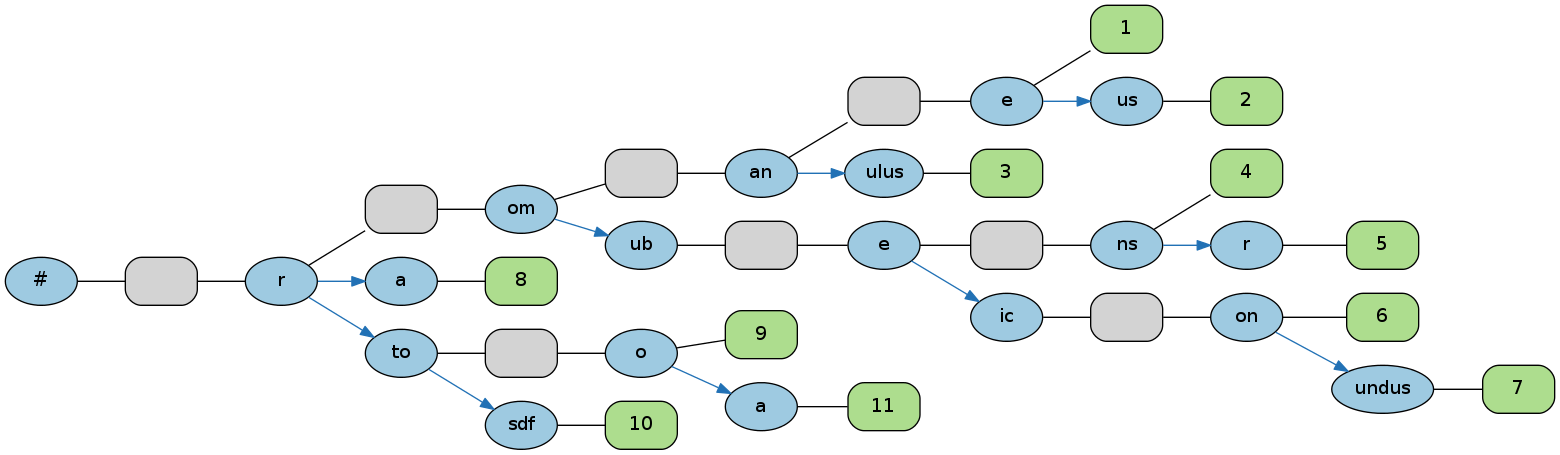
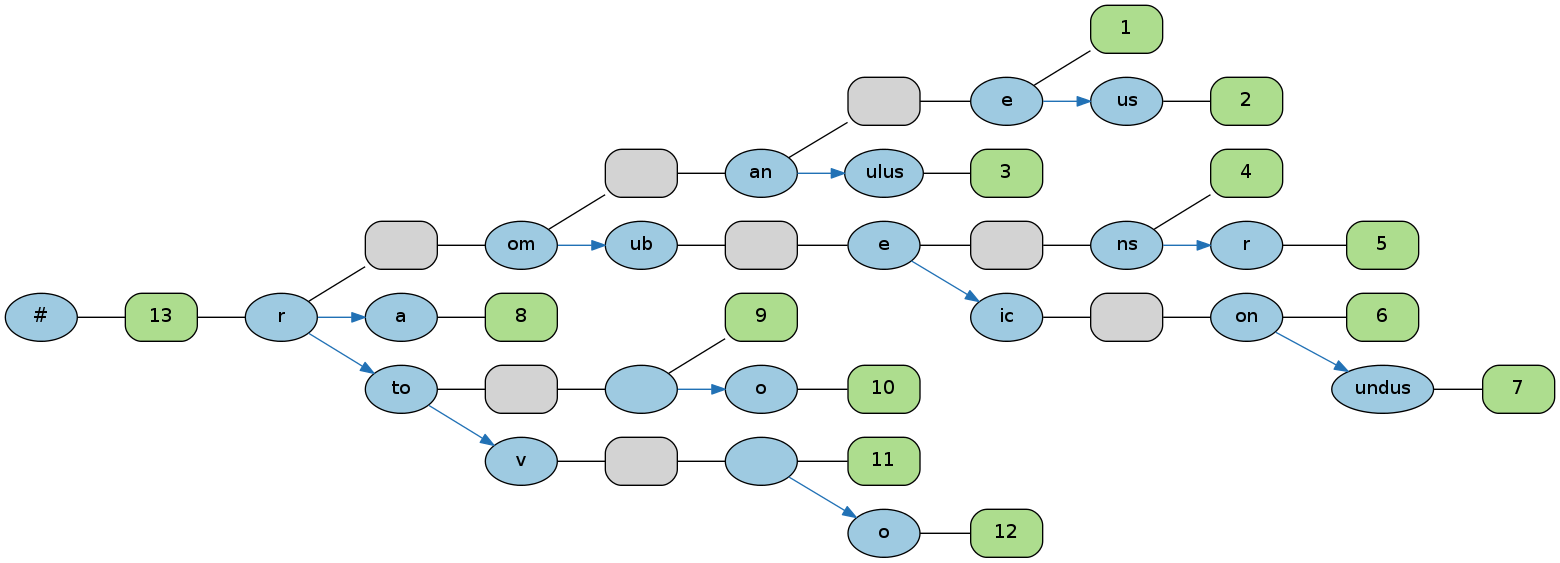
RHS.c (add next character function of radix tree)

diff --git a/RHS.c b/RHS.c
@@ -57,50 +57,63 @@ tmap(char * s, int d, t_t * t, a_t * a, int * l, int * n) {
 
 int /* next, true if children of trie root included it */
 tnex(char s, int * r, t_t * t, a_t * a) {
-  int c = * r;
-  return afet(s, &c, t[c].d, a, tm, 0) && (* r = c, 1) || !s && t[c].c;
+  int c = * r; /* c: copy */
+  return afet(s, &c, t[c].d, a, tm, 0) && (* r = a[c].d, 1) || !s && t[c].c;
 }
 
 int /* retrieve, 0 if the data does not exist or no children of included it */
 tret(char s, int * r, t_t * t, a_t * a) {
   int c = * r;
-  return afet(s, &c, t[c].d, a, tm, 0) && (* r = c,1) ? t[c].c : s ? 0 : t[c].c;
+  return afet(s, &c, t[c].d, a, tm, 0) ? (*r = a[c].d, t[*r].c) : s ? 0:t[c].c;
 }
 
 typedef struct { int i, l; } r_t; /* range used by radix tree */
 typedef struct { char * s; r_t * r; } rm_t; /* used by cmp func */
-
-int
-rm(int si, int ri, void * u) {
+typedef struct { char *s; r_t *g; t_t *t; a_t *a; int *m, *l, *n; } rp_t;
+/* packed, s: string, g: range, t: trie, a: AVL, length: g(m), t(l), a(n) */
+int /* compare when searching */
+rs(int c, int ri, void * u) { /* c: character, ri: index of range */
   char * s = ((rm_t *) u)->s; r_t * r = ((rm_t *) u)->r;
-  return s[si] - s[r[ri].i];
-}
+  return c - (r[ri].l ? s[r[ri].i] : 0);
+} /* allow empty AVL node (range length = 0) */
 
-int
-ri(int ra, int rb, void * u) {
+int /* compare when inserting */
+ri(int ra, int rb, void * u) { /* ra, rb: indice of range */
   char * s = ((rm_t *) u)->s; r_t * r = ((rm_t *) u)->r;
-  return s[r[ra].i] - s[r[rb].i];
-}
+  return s[r[ra].i] - (r[rb].l ? s[r[rb].i] : 0);
+} /* allow empty AVL node (range length = 0) */
 
-int /* insert, z: i + size(tail) */
-rins(int i, int d, char *s, r_t *g, t_t *t, a_t *a, int *m, int *l, int *n) {
+int /* insert, z: i + size(tail) TODO: no empty AVL node */
+rins(int i, int d, rp_t p) { char *s = p.s;
+  r_t *g = p.g; t_t *t = p.t; a_t *a = p.a; int *m = p.m, *l = p.l, *n = p.n;
   rm_t f[] = {s, g}; a_t * o = 0; r_t * k;
   int r = 0, b = 0, e = 0, z = i+strlen(s+i);
-  while (*s && b == e && afet(i, &r, t[r].d, a, rm, f) && (o = a+r, r = o->d))
+  while (*s && b == e && afet(s[i],&r,t[r].d,a,rs,f) && (o = a+r, r = o->d))
     for (k = g+o->k, b = k->i, e = b+k->l; b < e && s[b] == s[i]; ) b++, i++;
-  b == e && !s[i] && (t[r].c = d, 1) ||
+  b == e && !s[i] && (t[r].c = d, 1) || /* reached the trie node */
   o && (g[(*m)++] = (r_t) {b,e-b}, ains(*m-1,r,&t[*l].d,a,n,ri,f),
         g[(*m)++] = (r_t) {i,z-i}, ains(*m-1,*l+1,&t[*l].d,a,n,ri,f),
-        o->d = *l, k->l -= e-b, t[*l+1].c = d, *l += 2) ||
+        o->d = *l, k->l -= e-b, t[*l+1].c = d, *l += 2) || /* split trie */
   (t[*l].c = d, g[(*m)++] = (r_t) {i,z-i}, ains(*m-1,(*l)++,&t[r].d,a,n,ri,f));
-}
-
+} /* reached the trie root(trie[0]), insert new AVL node */
+    /* i: index of range, r: index of AVL, c: copy, x: next, d: included */
+int /* retrieve, 0 if the data does not exist or no children of included it */
+rret(char c, int *i, int *r, rp_t p) { char *s = p.s;
+  r_t *g = p.g; t_t *t = p.t; a_t *a = p.a; int *m = p.m, *l = p.l, *n = p.n;
+  rm_t f[] = {s, g}; int o = * r, x, d = (o || (*i = 0), o && *i < g[a[o].k].l);
+  return d && s[g[a[o].k].i+*i] == c && ++*i && *i == g[a[o].k].l || !d &&
+      (!c || afet(c,&o,t[a[o].d].d,a,rs,f) && (*r=o, *i=1, *i == g[a[o].k].l)) ?
+      (afet(0,&x,t[a[o].d].d,a,rs,f) ? t[a[x].d].c : t[a[o].d].c) : 0;
+} /* if included & reached last character | !included & (EOF | goto next AVL) */
+  /*   data is in this AVL node or next empty AVL node                        */
 int
 cmp(const void * a, const void * b) {
   char * x = * ((char **) a) + 2, * y = * ((char **) b) + 2;
   while (* x == * y && * x) x++, y++;
   return * x - * y;
 }
+
+#define P(func) ((d = func) ? d : '#') /* patch char */
 
 int
 main(void) {
@@ -109,23 +122,29 @@ main(void) {
   /*qsort(rhs, sizeof(char *), l, cmp);*/
   for (i = 0; i < l; i++) puts(rhs[i]);
   r_t x[100] = {0}; t_t t[100] = {0}; a_t a[100] = {0};
-  int r = 0, ar = 1, gl = 0, tl = 1, al = 1, d, mem = 0;
+  int r = 0, ar = 0, gl = 0, tl = 1, al = 1, d, mem = 0;
   /* test trie by assigning long sentances to trie */
-  char * test[] = {"romane","romanus","romulus","rubens","ruber","rubicon",
-    "rubicundus","a","too", "sdf","toa"};
-  /*
-  for (i = 0; i <= 19 && i < sizeof(test)/sizeof(*test); i++)
-    tmap(test[i], i+1, t, a, &tl, &al), mem += strlen(test[i]);
-  printf("String memory: %d\n"
-         "Used memory: [trie %zu] * %d + [AVL node %zu] * %d = %zu\n", mem,
-         sizeof(t_t), tl, sizeof(a_t), al, tl*sizeof(t_t)+al*sizeof(a_t));
-         */
-  for (i = 0; i <= 20 && i < sizeof(test)/sizeof(*test); i++)
-    rins(test[i]-*test, i+1, *test, x, t, a, &gl, &tl, &al),
-    mem += strlen(test[i]);
   /* radix tree used memory: 8*(n-g+1)+20*(n-g+1)+8*(n-g)
    * trie used memory:       8*(n+1)+20*(n+1)
    * n: number of nodes, g: number of nodes can be grouped */
+  char * test[] = {"romane","romanus","romulus","rubens","ruber","rubicon",
+    "rubicundus","a","to","too","v","vo",""};
+  rp_t p = {*test, x, t, a, &gl, &tl, &al};
+  for (i = 0; i <= 20 && i < sizeof(test)/sizeof(*test); i++)
+    rins(test[i]-*test, i+1, p), mem += strlen(test[i]);
+  printf("  has a(%d", ar);printf("): %d\n", rret('a', &i, &ar, p)), ar = 0;
+  printf("  has (%d", ar);printf("): %d\n", rret('\0', &i, &ar, p)), ar = 0;
+  printf("  has v(%d", ar);printf("): %d\n", rret('v', &i, &ar, p));
+  printf("  has v(%d", ar);printf("): %d\n", rret('\0', &i, &ar, p));
+  printf("  has v(%d", ar);printf("): %d\n", rret('\0', &i, &ar, p)), ar = 0;
+  printf("  has to(%d", ar);printf("): %d\n", rret('t', &i, &ar, p));
+  printf("  has to(%d", ar);printf("): %d\n", rret('o', &i, &ar, p));
+  printf("  has to(%d", ar);printf("): %d\n", rret('\0', &i, &ar, p));
+  printf("  has to(%d", ar);printf("): %d\n", rret('\0', &i, &ar, p)), ar = 0;
+  printf("  has too(%d", ar);printf("): %d\n", rret('t', &i, &ar, p));
+  printf("  has too(%d", ar);printf("): %d\n", rret('o', &i, &ar, p));
+  printf("  has too(%d", ar);printf("): %d\n", rret('o', &i, &ar, p));
+  printf("  has too(%d", ar);printf("): %d\n", rret('\0', &i, &ar, p)), ar = 0;
   printf("String memory: %d\n"
          "Used memory: [trie %zu] * %d + [AVL node %zu] * %d + [range node %zu]"
          " * %d = %zu\n", mem,
@@ -175,7 +194,13 @@ main(void) {
   gvRenderFilename(gvc, g, "png", "graphviz.png");
   gvFreeLayout(gvc, g);
   agclose(g);
-#define P(c) ((d = c) ? d : '#') /* patch char */
+  /*
+  for (i = 0; i <= 19 && i < sizeof(test)/sizeof(*test); i++)
+    tmap(test[i], i+1, t, a, &tl, &al), mem += strlen(test[i]);
+  printf("String memory: %d\n"
+         "Used memory: [trie %zu] * %d + [AVL node %zu] * %d = %zu\n", mem,
+         sizeof(t_t), tl, sizeof(a_t), al, tl*sizeof(t_t)+al*sizeof(a_t));
+  */
   /* test trie by map a string to a character *//*
   for (i = 0; i < l; i++) tmap(rhs[i]+2, *rhs[i], t, a, &tl, &al);
   printf("  has U(%d", r);printf("): %c\n", P(tret('U', &r, t, a)));
@@ -266,6 +291,7 @@ main(void) {
   printf("  has 9 6(%d", r);printf("): %d\n", tnex('\x06', &r, t, a)), r = 0;
   */
   /* test AVL tree *//*
+  ar = 1;
   ains(8, 9, &ar, a, &al);
   ains(3, 9, &ar, a, &al);
   ains(4, 9, &ar, a, &al);
